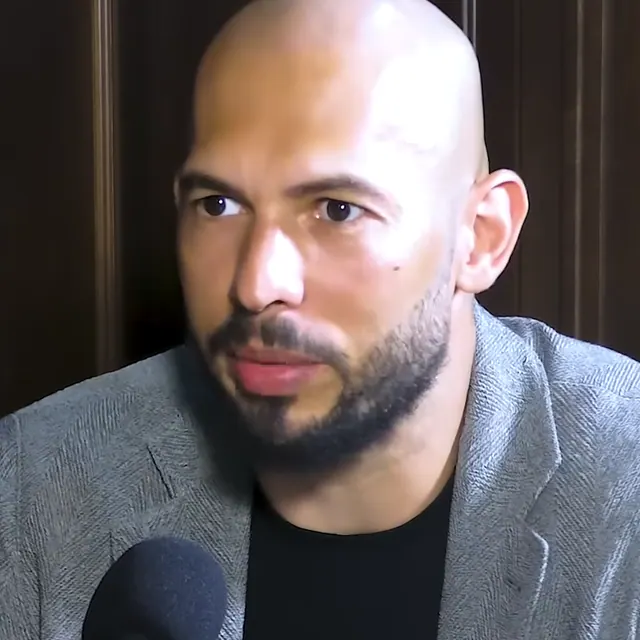
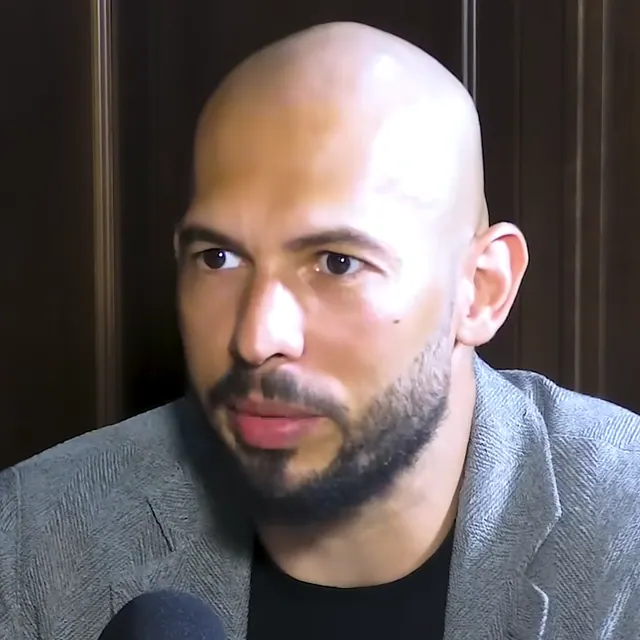
Fix mobile digest navigation and portrait framing

diff --git a/mobile/WhatspopularMobile/ForYouMobileView.swift b/mobile/WhatspopularMobile/ForYouMobileView.swift
@@ -69,8 +69,11 @@ struct ForYouMobileView: View {
         }
         .onAppear {
             if selectedTags.isEmpty {
-                selectedTags = account.presentedProfile?.tags
-                    ?? defaultTags.filter { defaultID in categories.contains(where: { $0.id == defaultID }) }
+                let validStoredTags = (account.presentedProfile?.tags ?? [])
+                    .filter { storedTag in categories.contains(where: { $0.id == storedTag }) }
+                selectedTags = validStoredTags.isEmpty
+                    ? defaultTags.filter { defaultID in categories.contains(where: { $0.id == defaultID }) }
+                    : validStoredTags
             }
         }
         .onChange(of: account.presentedProfile?.tags ?? []) { _, tags in
@@ -153,14 +156,7 @@ struct ForYouMobileView: View {
                     ForEach(categories) { category in
                         let active = selectedTags.contains(category.id)
                         Button {
-                            let next = active
-                                ? selectedTags.filter { $0 != category.id }
-                                : selectedTags + [category.id]
-                            selectedTags = next
-                            mixRevision += 1
-                            if account.isLinked {
-                                Task { await account.saveTags(next) }
-                            }
+                            toggleTag(category)
                         } label: {
                             HStack(spacing: 6) {
                                 Circle().fill(Color(hex: category.accent)).frame(width: 7, height: 7)
@@ -187,6 +183,16 @@ struct ForYouMobileView: View {
         ScrollViewReader { proxy in
             ScrollView(.vertical, showsIndicators: false) {
                 LazyVStack(spacing: 0) {
+                    MobileDigestIntroCard(
+                        summary: brief?.summary ?? "A pre-built signal mix from the corners you actually follow.",
+                        categories: categories,
+                        selectedTags: selectedTags,
+                        onToggle: toggleTag
+                    )
+                    .frame(maxWidth: .infinity)
+                    .containerRelativeFrame(.vertical)
+                    .id(introFeedID)
+
                     ForEach(Array(entries.enumerated()), id: \.element.id) { index, entry in
                         MobileDigestCard(entry: entry, number: index + 1)
                             .frame(maxWidth: .infinity)
@@ -197,7 +203,11 @@ struct ForYouMobileView: View {
                     MobileDigestEndCard(
                         cardCount: entries.count,
                         onRecompile: { mixRevision += 1 },
-                        onEditInterests: { accountPresented = true }
+                        onEditInterests: {
+                            withAnimation(.easeOut(duration: 0.35)) {
+                                proxy.scrollTo(introFeedID, anchor: .top)
+                            }
+                        }
                     )
                     .frame(maxWidth: .infinity)
                     .containerRelativeFrame(.vertical)
@@ -208,21 +218,18 @@ struct ForYouMobileView: View {
             .scrollTargetBehavior(.paging)
             .scrollIndicators(.hidden)
             .background(Color.black)
-            .overlay(alignment: .top) {
+            .safeAreaInset(edge: .top, spacing: 0) {
                 feedHeader(cardCount: entries.count)
             }
             .id(mixRevision)
             .onChange(of: mixRevision) { _, _ in
-                guard let firstEntry = entries.first else { return }
                 DispatchQueue.main.async {
                     withAnimation(.easeOut(duration: 0.35)) {
-                        proxy.scrollTo(feedID(for: firstEntry), anchor: .top)
+                        proxy.scrollTo(introFeedID, anchor: .top)
                     }
                 }
             }
         }
-        .toolbar(.hidden, for: .tabBar)
-        .ignoresSafeArea(.container, edges: .vertical)
     }
 
     private func feedHeader(cardCount: Int) -> some View {
@@ -255,16 +262,21 @@ struct ForYouMobileView: View {
             .accessibilityLabel("Open account settings")
         }
         .padding(.horizontal, 16)
-        .padding(.top, 12)
-        .padding(.bottom, 19)
+        .padding(.top, 7)
+        .padding(.bottom, 10)
         .foregroundStyle(.white)
-        .background(
-            LinearGradient(
-                colors: [.black.opacity(0.72), .black.opacity(0)],
-                startPoint: .top,
-                endPoint: .bottom
-            )
-        )
+        .background(Color.black.opacity(0.94))
+    }
+
+    private func toggleTag(_ category: NicheCategory) {
+        let next = selectedTags.contains(category.id)
+            ? selectedTags.filter { $0 != category.id }
+            : selectedTags + [category.id]
+        selectedTags = next
+        mixRevision += 1
+        if account.isLinked {
+            Task { await account.saveTags(next) }
+        }
     }
 
     private var accountGate: some View {
@@ -297,6 +309,7 @@ struct ForYouMobileView: View {
     }
 
     private var endFeedID: String { "feed-end-\(mixRevision)" }
+    private var introFeedID: String { "feed-intro-\(mixRevision)" }
 
     private func feedID(for entry: MobileDigestEntry) -> String {
         "feed-\(mixRevision)-\(entry.id)"
@@ -316,6 +329,89 @@ private struct MobileDigestEntry: Identifiable {
     let categoryParent: String
 
     var id: String { topic.id }
+}
+
+private struct MobileDigestIntroCard: View {
+    let summary: String
+    let categories: [NicheCategory]
+    let selectedTags: [String]
+    let onToggle: (NicheCategory) -> Void
+
+    var body: some View {
+        VStack(alignment: .leading, spacing: 18) {
+            HStack(alignment: .top) {
+                VStack(alignment: .leading, spacing: 5) {
+                    Text("YOUR WEEKLY MIX")
+                        .font(.caption2.weight(.black))
+                        .tracking(1.2)
+                    Text("Start with the corners you chose.")
+                        .font(.system(size: 33, weight: .black, design: .rounded))
+                        .tracking(-1.15)
+                        .fixedSize(horizontal: false, vertical: true)
+                }
+                Spacer(minLength: 12)
+                Text("\(selectedTags.count)\nselected")
+                    .font(.caption.weight(.black))
+                    .multilineTextAlignment(.trailing)
+                    .foregroundStyle(.white.opacity(0.72))
+            }
+
+            Spacer(minLength: 8)
+
+            Text(summary)
+                .font(.body.weight(.medium))
+                .foregroundStyle(.white.opacity(0.88))
+                .fixedSize(horizontal: false, vertical: true)
+
+            VStack(alignment: .leading, spacing: 8) {
+                Text("TAP TO TUNE THIS MIX")
+                    .font(.caption2.weight(.black))
+                    .tracking(1)
+                    .foregroundStyle(.white.opacity(0.72))
+                ScrollView(.horizontal, showsIndicators: false) {
+                    HStack(spacing: 8) {
+                        ForEach(categories) { category in
+                            let active = selectedTags.contains(category.id)
+                            Button { onToggle(category) } label: {
+                                HStack(spacing: 6) {
+                                    Circle()
+                                        .fill(active ? .white : Color(hex: category.accent))
+                                        .frame(width: 7, height: 7)
+                                    Text(category.label)
+                                        .font(.caption.weight(.bold))
+                                }
+                                .padding(.horizontal, 11)
+                                .padding(.vertical, 8)
+                                .foregroundStyle(active ? Color(hex: category.accent) : .white)
+                                .background(active ? .white : .white.opacity(0.12), in: Capsule())
+                                .overlay {
+                                    Capsule().stroke(.white.opacity(active ? 0 : 0.26), lineWidth: 1)
+                                }
+                                .contentShape(Capsule())
+                            }
+                            .buttonStyle(.plain)
+                        }
+                    }
+                }
+            }
+
+            Spacer(minLength: 4)
+
+            Label("Swipe up for the first signal", systemImage: "arrow.up")
+                .font(.caption.weight(.bold))
+                .foregroundStyle(.white.opacity(0.68))
+        }
+        .padding(.horizontal, 24)
+        .padding(.vertical, 30)
+        .foregroundStyle(.white)
+        .background(
+            LinearGradient(
+                colors: [Color(hex: "#264b68"), Color(hex: "#122738"), .black],
+                startPoint: .topLeading,
+                endPoint: .bottomTrailing
+            )
+        )
+    }
 }
 
 private struct MobileDigestCard: View {
@@ -428,6 +524,28 @@ private struct MobileDigestCard: View {
                                 NicheMusicEmbedView(playback: playback)
                                     .frame(height: 142)
                                     .clipShape(RoundedRectangle(cornerRadius: 12, style: .continuous))
+                                if let playbackURL = URL(string: playback.externalUrl) {
+                                    Link(destination: playbackURL) {
+                                        HStack(spacing: 7) {
+                                            Image(systemName: playback.provider.caseInsensitiveCompare("YouTube") == .orderedSame
+                                                ? "play.rectangle.fill"
+                                                : "arrow.up.right.square")
+                                            Text(playback.provider.caseInsensitiveCompare("YouTube") == .orderedSame
+                                                ? "Open in YouTube"
+                                                : "Open in \(playback.provider)")
+                                            Spacer(minLength: 0)
+                                            Image(systemName: "arrow.up.right")
+                                        }
+                                        .font(.caption.weight(.bold))
+                                        .padding(.horizontal, 10)
+                                        .padding(.vertical, 8)
+                                        .foregroundStyle(.white)
+                                        .background(.white.opacity(0.13), in: Capsule())
+                                        .contentShape(Capsule())
+                                    }
+                                    .buttonStyle(.plain)
+                                    .accessibilityHint("Opens the source player outside the embedded preview")
+                                }
                             }
                             .padding(9)
                             .background(.black.opacity(0.28), in: RoundedRectangle(cornerRadius: 15, style: .continuous))
@@ -535,10 +653,32 @@ private struct MobileDigestEndCard: View {
 private struct NicheMusicEmbedView: UIViewRepresentable {
     let playback: NichePlayback
 
+    private var embedURL: URL? {
+        guard var components = URLComponents(string: playback.embedUrl) else { return nil }
+        if playback.provider.caseInsensitiveCompare("YouTube") == .orderedSame {
+            components.host = "www.youtube.com"
+            var queryItems = components.queryItems ?? []
+            func setQuery(_ name: String, _ value: String) {
+                if let index = queryItems.firstIndex(where: { $0.name == name }) {
+                    queryItems[index].value = value
+                } else {
+                    queryItems.append(URLQueryItem(name: name, value: value))
+                }
+            }
+            setQuery("enablejsapi", "1")
+            setQuery("origin", "https://whatspopular.pigeonflare.chatgpt.site")
+            setQuery("playsinline", "1")
+            setQuery("rel", "0")
+            components.queryItems = queryItems
+        }
+        return components.url
+    }
+
     func makeUIView(context: Context) -> WKWebView {
         let configuration = WKWebViewConfiguration()
         configuration.allowsInlineMediaPlayback = true
         configuration.mediaTypesRequiringUserActionForPlayback = [.audio, .video]
+        configuration.defaultWebpagePreferences.allowsContentJavaScript = true
 
         let webView = WKWebView(frame: .zero, configuration: configuration)
         webView.isOpaque = false
@@ -554,10 +694,17 @@ private struct NicheMusicEmbedView: UIViewRepresentable {
     }
 
     private func loadIfNeeded(_ webView: WKWebView) {
-        let identifier = "niche-music-player-\(playback.provider)-\(playback.embedUrl)"
-        guard webView.accessibilityIdentifier != identifier,
-              let url = URL(string: playback.embedUrl) else { return }
+        guard let url = embedURL else { return }
+        let identifier = "niche-player-\(playback.provider)-\(url.absoluteString)"
+        guard webView.accessibilityIdentifier != identifier else { return }
         webView.accessibilityIdentifier = identifier
-        webView.load(URLRequest(url: url, cachePolicy: .useProtocolCachePolicy))
+        var request = URLRequest(url: url, cachePolicy: .useProtocolCachePolicy)
+        if playback.provider.caseInsensitiveCompare("YouTube") == .orderedSame {
+            request.setValue(
+                "https://whatspopular.pigeonflare.chatgpt.site/for-you",
+                forHTTPHeaderField: "Referer"
+            )
+        }
+        webView.load(request)
     }
 }

diff --git a/website/app/components/leaderboard.tsx b/website/app/components/leaderboard.tsx
@@ -11,7 +11,7 @@ export function Leaderboard({ section }: { section: CultureSection }) {
       : { width: 720, height: 520 };
 
   return (
-    <section className="board" id={section.id} aria-labelledby={`${section.id}-title`}>
+    <section className="board" data-section={section.id} id={section.id} aria-labelledby={`${section.id}-title`}>
       <div className="board-heading">
         <div>
           <p className="eyebrow">{section.eyebrow}</p>

diff --git a/website/app/globals.css b/website/app/globals.css
@@ -1284,9 +1284,17 @@ img {
 }
 
 .card-art img {
+  display: block;
   width: 100%;
   height: 100%;
   object-fit: cover;
+}
+
+/* Portrait boards must keep the full source frame so faces do not disappear
+   when a portrait is normalized into the square leaderboard art slot. */
+.board[data-section="people"] .card-art img {
+  object-fit: contain;
+  background: var(--paper-deep);
 }
 
 .source-chip {
